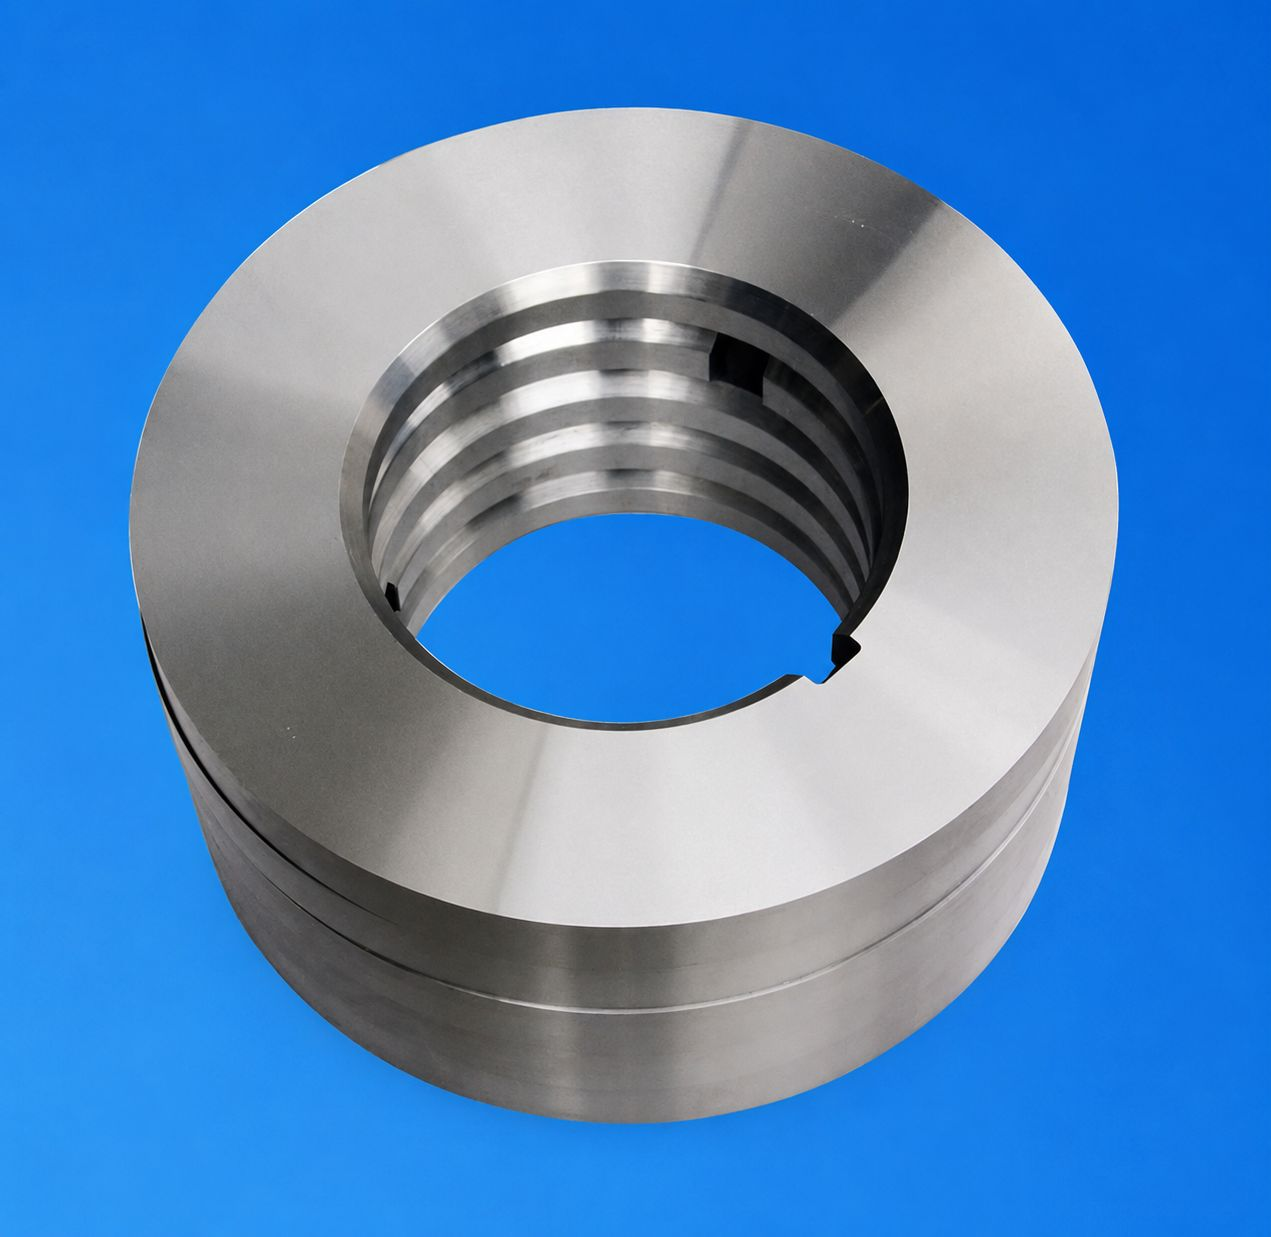
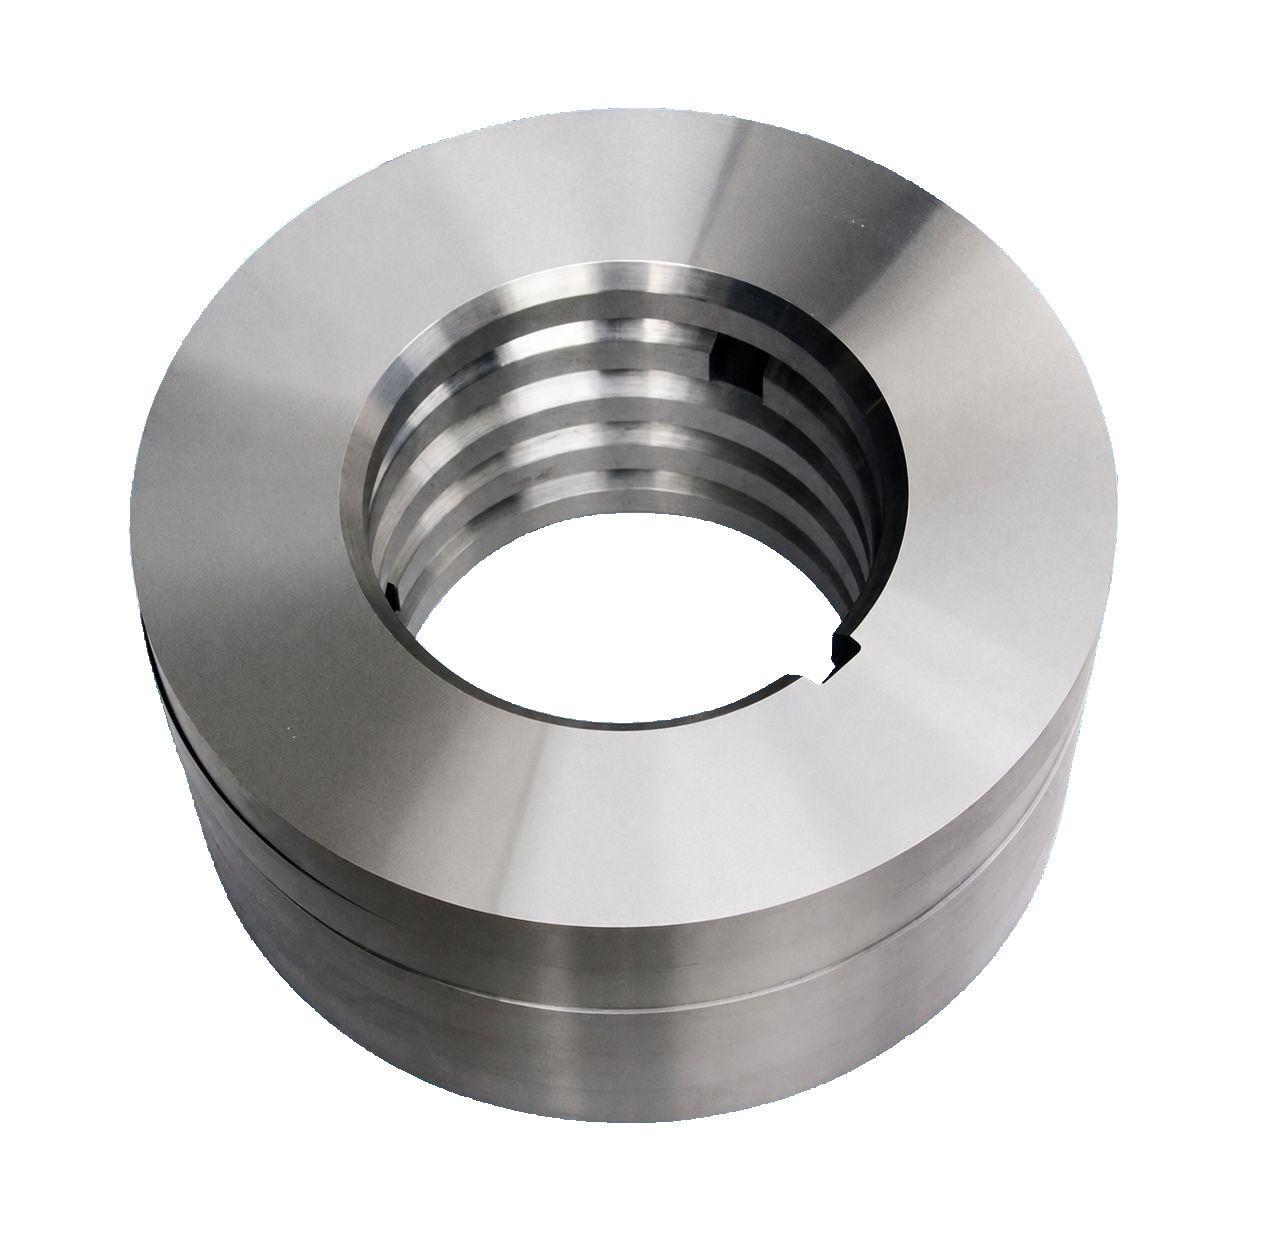
update pages

diff --git a/resources/views/home.blade.php b/resources/views/home.blade.php
@@ -62,6 +62,31 @@
         gap: 16px;
     }
 
+    .home-intro-section .home-intro-highlights .highlight-item {
+        align-items: center !important;
+    }
+
+    .home-intro-section .home-intro-highlights .icon-circle {
+        width: 64px;
+        height: 64px;
+        min-width: 64px;
+        flex: 0 0 64px;
+        border-radius: 50%;
+    }
+
+    .home-intro-section .home-intro-highlights .icon-circle i,
+    .home-intro-section .home-intro-highlights .icon-circle svg {
+        display: block;
+        width: 28px;
+        height: 28px;
+        line-height: 1;
+        flex-shrink: 0;
+    }
+
+    .home-intro-section .home-intro-highlights .highlight-copy {
+        min-width: 0;
+    }
+
     .home-intro-section .home-intro-highlights h5 {
         font-family: 'Teko', sans-serif;
         font-size: 1.7rem;
@@ -98,6 +123,10 @@
     }
 
     @media (max-width: 575.98px) {
+        .home-intro-section .home-intro-highlights .highlight-item {
+            align-items: flex-start !important;
+        }
+
         .home-intro-section .text-box p,
         .home-intro-section .text-box li,
         .home-intro-section .text-box .any-question {
@@ -146,72 +175,72 @@
             <div class="col-lg-4 order-lg-2 home-intro-highlights">
                 <div class="row">
                     <div class="col-12 mb-2">
-                        <div class="d-flex align-items-start">
-                            <div class="icon-circle d-flex align-items-center justify-content-center me-3" style="width:64px;height:64px;border-radius:50%;background:#e6f0fb;">
+                        <div class="highlight-item d-flex align-items-start">
+                            <div class="icon-circle d-flex align-items-center justify-content-center me-3" style="background:#e6f0fb;">
                                 <i class="flaticon-gear" style="font-size:28px;color:#2b6cb0"></i>
                             </div>
-                            <div class="flex-grow-1">
+                            <div class="highlight-copy flex-grow-1">
                                 <h5 class="mb-1">Professional</h5>
                                 <p class="small text-muted mb-0">Qualified team and precise processes</p>
                             </div>
                         </div>
                     </div>
                     <div class="col-12 mb-2">
-                        <div class="d-flex align-items-start">
-                            <div class="icon-circle d-flex align-items-center justify-content-center me-3" style="width:64px;height:64px;border-radius:50%;background:#e6f9f0;">
+                        <div class="highlight-item d-flex align-items-start">
+                            <div class="icon-circle d-flex align-items-center justify-content-center me-3" style="background:#e6f9f0;">
                                 <i class="flaticon-globe" style="font-size:28px;color:#38a169"></i>
                             </div>
-                            <div class="flex-grow-1">
+                            <div class="highlight-copy flex-grow-1">
                                 <h5 class="mb-1">Global Standards</h5>
                                 <p class="small text-muted mb-0">International machinery and quality <b>standards</b></p>
                             </div>
                         </div>
                     </div>
                     <div class="col-12 mb-2">
-                        <div class="d-flex align-items-start">
-                            <div class="icon-circle d-flex align-items-center justify-content-center me-3" style="width:64px;height:64px;border-radius:50%;background:#fff7e6;">
+                        <div class="highlight-item d-flex align-items-start">
+                            <div class="icon-circle d-flex align-items-center justify-content-center me-3" style="background:#fff7e6;">
                                 <i class="flaticon-worker" style="font-size:28px;color:#d69e2e"></i>
                             </div>
-                            <div class="flex-grow-1">
+                            <div class="highlight-copy flex-grow-1">
                                 <h5 class="mb-1">Experienced</h5>
                                 <p class="small text-muted mb-0">Skilled technicians since 1993</p>
                             </div>
                         </div>
                     </div>
                     <div class="col-12 mb-2">
-                        <div class="d-flex align-items-start">
-                            <div class="icon-circle d-flex align-items-center justify-content-center me-3" style="width:64px;height:64px;border-radius:50%;background:#f0f4ff;">
+                        <div class="highlight-item d-flex align-items-start">
+                            <div class="icon-circle d-flex align-items-center justify-content-center me-3" style="background:#f0f4ff;">
                                 <!-- SVG fallback for plus -->
                                 <svg width="28" height="28" viewBox="0 0 24 24" fill="none" xmlns="http://www.w3.org/2000/svg">
                                     <path d="M12 2C6.48 2 2 6.48 2 12s4.48 10 10 10 10-4.48 10-10S17.52 2 12 2zm5 11h-4v4h-2v-4H7v-2h4V7h2v4h4v2z" fill="#4c51bf" />
                                 </svg>
                             </div>
-                            <div class="flex-grow-1">
+                            <div class="highlight-copy flex-grow-1">
                                 <h5 class="mb-1">Safety</h5>
                                 <p class="small text-muted mb-0">Safe handling and disposal services</p>
                             </div>
                         </div>
                     </div>
                     <div class="col-12 mb-2">
-                        <div class="d-flex align-items-start">
-                            <div class="icon-circle d-flex align-items-center justify-content-center me-3" style="width:64px;height:64px;border-radius:50%;background:#fff4e6;">
+                        <div class="highlight-item d-flex align-items-start">
+                            <div class="icon-circle d-flex align-items-center justify-content-center me-3" style="background:#fff4e6;">
                                 <i class="flaticon-management" style="font-size:28px;color:#ed8936"></i>
                             </div>
-                            <div class="flex-grow-1">
+                            <div class="highlight-copy flex-grow-1">
                                 <h5 class="mb-1">Custom Solutions</h5>
                                 <p class="small text-muted mb-0">Tailored sharpening and regrinding services</p>
                             </div>
                         </div>
                     </div>
                     <div class="col-12 mb-2">
-                        <div class="d-flex align-items-start">
-                            <div class="icon-circle d-flex align-items-center justify-content-center me-3" style="width:64px;height:64px;border-radius:50%;background:#f0fff4;">
+                        <div class="highlight-item d-flex align-items-start">
+                            <div class="icon-circle d-flex align-items-center justify-content-center me-3" style="background:#f0fff4;">
                                 <!-- Clock icon -->
                                 <svg width="28" height="28" viewBox="0 0 24 24" fill="none" xmlns="http://www.w3.org/2000/svg">
                                     <path d="M12 2C6.5 2 2 6.5 2 12s4.5 10 10 10 10-4.5 10-10S17.5 2 12 2zm0 18c-4.41 0-8-3.59-8-8s3.59-8 8-8 8 3.59 8 8-3.59 8-8 8zm.5-13H11v6l5.2 3.2.8-1.3-4.5-2.7V7z" fill="#2f855a"/>
                                 </svg>
                             </div>
-                            <div class="flex-grow-1">
+                            <div class="highlight-copy flex-grow-1">
                                 <h5 class="mb-1">Fast Turnaround</h5>
                                 <p class="small text-muted mb-0">Quick service to keep you running</p>
                             </div>

diff --git a/resources/views/contact.blade.php b/resources/views/contact.blade.php
@@ -4,6 +4,17 @@
 
 @section('content')
 
+<style>
+  .contact-section .contact-box .contact-whatsapp a {
+    color: #222222;
+    font-weight: 600;
+  }
+
+  .contact-section .contact-box .contact-whatsapp a:hover {
+    color: #e11d07;
+  }
+</style>
+
 <!-- :: Breadcrumb Header -->
 <section class="breadcrumb-header" id="page" style="background-image: url('{{ asset('template/images/header/04_header.jpg') }}')">
     <div class="overlay"></div>
@@ -213,9 +224,10 @@
           </p>
 
           <h4 class="fw-bold mb-3 mt-4">WhatsApp</h4>
-          <p class="mb-3">
+          <p class="mb-3 contact-whatsapp">
             <a href="https://wa.me/60162052950" target="_blank" rel="noopener">(+60)16-205-2950</a><br>
-            <a href="https://wa.me/60166612366" target="_blank" rel="noopener">(+60)16-661-2366</a>
+            <a href="https://wa.me/60166612366" target="_blank" rel="noopener">(+60)16-661-2366</a><br>
+            <a href="tel:0377848351">03-7784 8351</a>
           </p>
 
           <h4 class="fw-bold mb-3 mt-4">Business Hours</h4>

diff --git a/resources/views/layouts/footer.blade.php b/resources/views/layouts/footer.blade.php
@@ -35,7 +35,18 @@
                     <div class="footer-title">
                         <h4>Get in touch</h4>
                     </div>
-                    <h4>+(60)3-7782-6442</h4><br><a href="mailto:sales@goldken.com.my">sales@goldken.com.my</a></p>
+                    <div class="footer-contact">
+                        <h4 class="mb-2">+(60)3-7782-6442</h4>
+                        <h4 class="mb-3">03-7784 8351</h4>
+                        <p class="mb-2"><strong>WhatsApp</strong></p>
+                        <p class="mb-3">
+                            <a href="https://wa.me/60162052950" target="_blank" rel="noopener">(+60)16-205-2950</a><br>
+                            <a href="https://wa.me/60166612366" target="_blank" rel="noopener">(+60)16-661-2366</a>
+                        </p>
+                        <p class="mb-0">
+                            <a href="mailto:sales@goldken.com.my">sales@goldken.com.my</a>
+                        </p>
+                    </div>
                 </div>
 
             </div>

diff --git a/resources/views/about-us.blade.php b/resources/views/about-us.blade.php
@@ -108,8 +108,8 @@
   <!-- CTA -->
   <div class="any-question" data-aos="fade-right" data-aos-delay="500">
     Whatsapp us today:
-    <a href="tel:01212843661">(+60)16-661-2366</a> or
-    <a href="tel:01068710594">(+60)16-205-2950</a>
+    <a href="tel:0166612366">(+60)16-661-2366</a> or
+    <a href="tel:0162052950">(+60)16-205-2950</a>
   </div>
   <a href="{{ url('contact') }}" class="btn btn-primary mt-3">Request A Quote</a>
 
